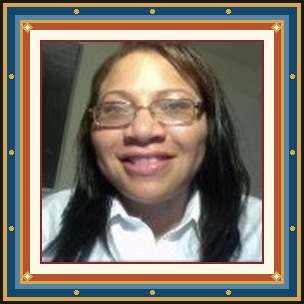
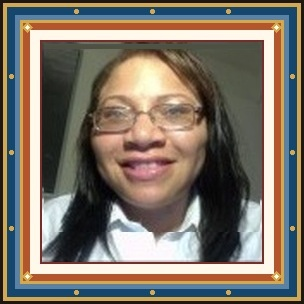
Extend photo headroom slightly and darken the tagline rule.

diff --git a/src/app/about/page.tsx b/src/app/about/page.tsx
@@ -45,7 +45,7 @@ export default function AboutPage() {
             <div className="overflow-hidden rounded-lg border-4 border-black bg-[#0b2545] shadow-md">
               {/* eslint-disable-next-line @next/next/no-img-element */}
               <img
-                src={profile.photoPath}
+                src={`${profile.photoPath}?v=8`}
                 alt={profile.displayName}
                 width={316}
                 height={316}

diff --git a/src/app/page.tsx b/src/app/page.tsx
@@ -73,7 +73,7 @@ export default function HomePage() {
             <div className="overflow-hidden rounded-lg border-4 border-black bg-[#0b2545] shadow-md">
               {/* eslint-disable-next-line @next/next/no-img-element */}
               <img
-                src={profile.photoPath}
+                src={`${profile.photoPath}?v=8`}
                 alt={profile.displayName}
                 width={316}
                 height={316}

diff --git a/src/app/globals.css b/src/app/globals.css
@@ -130,7 +130,7 @@ figcaption.place-label {
   width: 100%;
   text-align: left;
   border-top: 3px double #000;
-  border-bottom: 1px solid #000;
+  border-bottom: 2px solid #000;
   padding: 0.4rem 0.25rem 0.5rem;
 }
 
